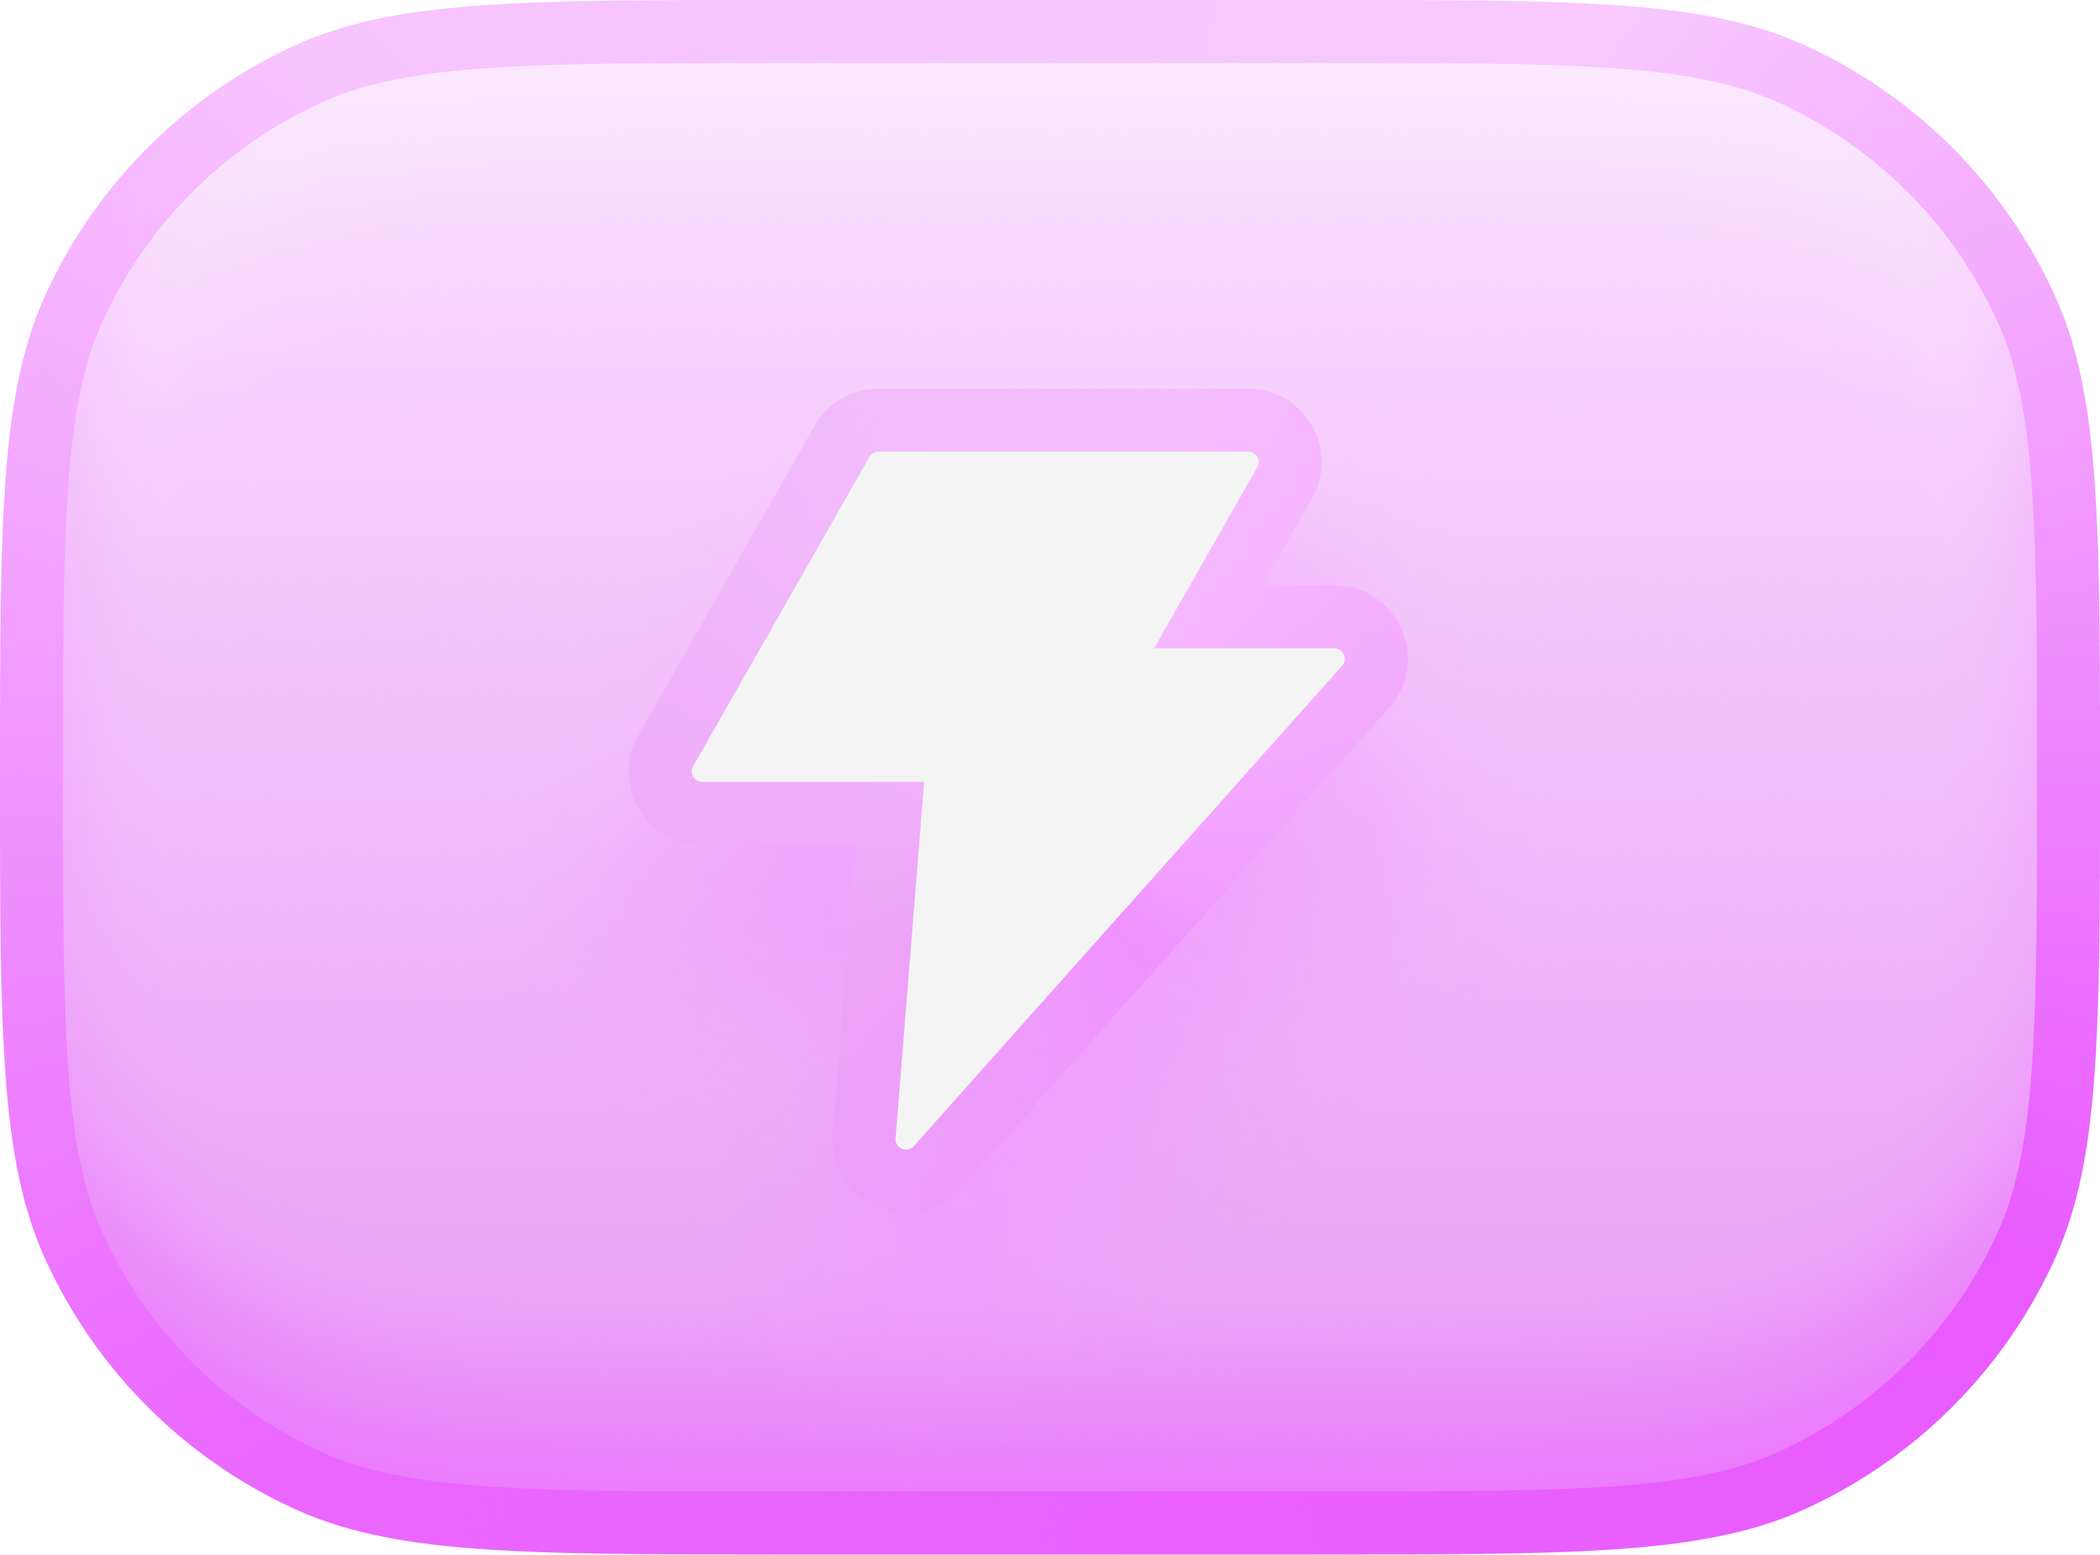
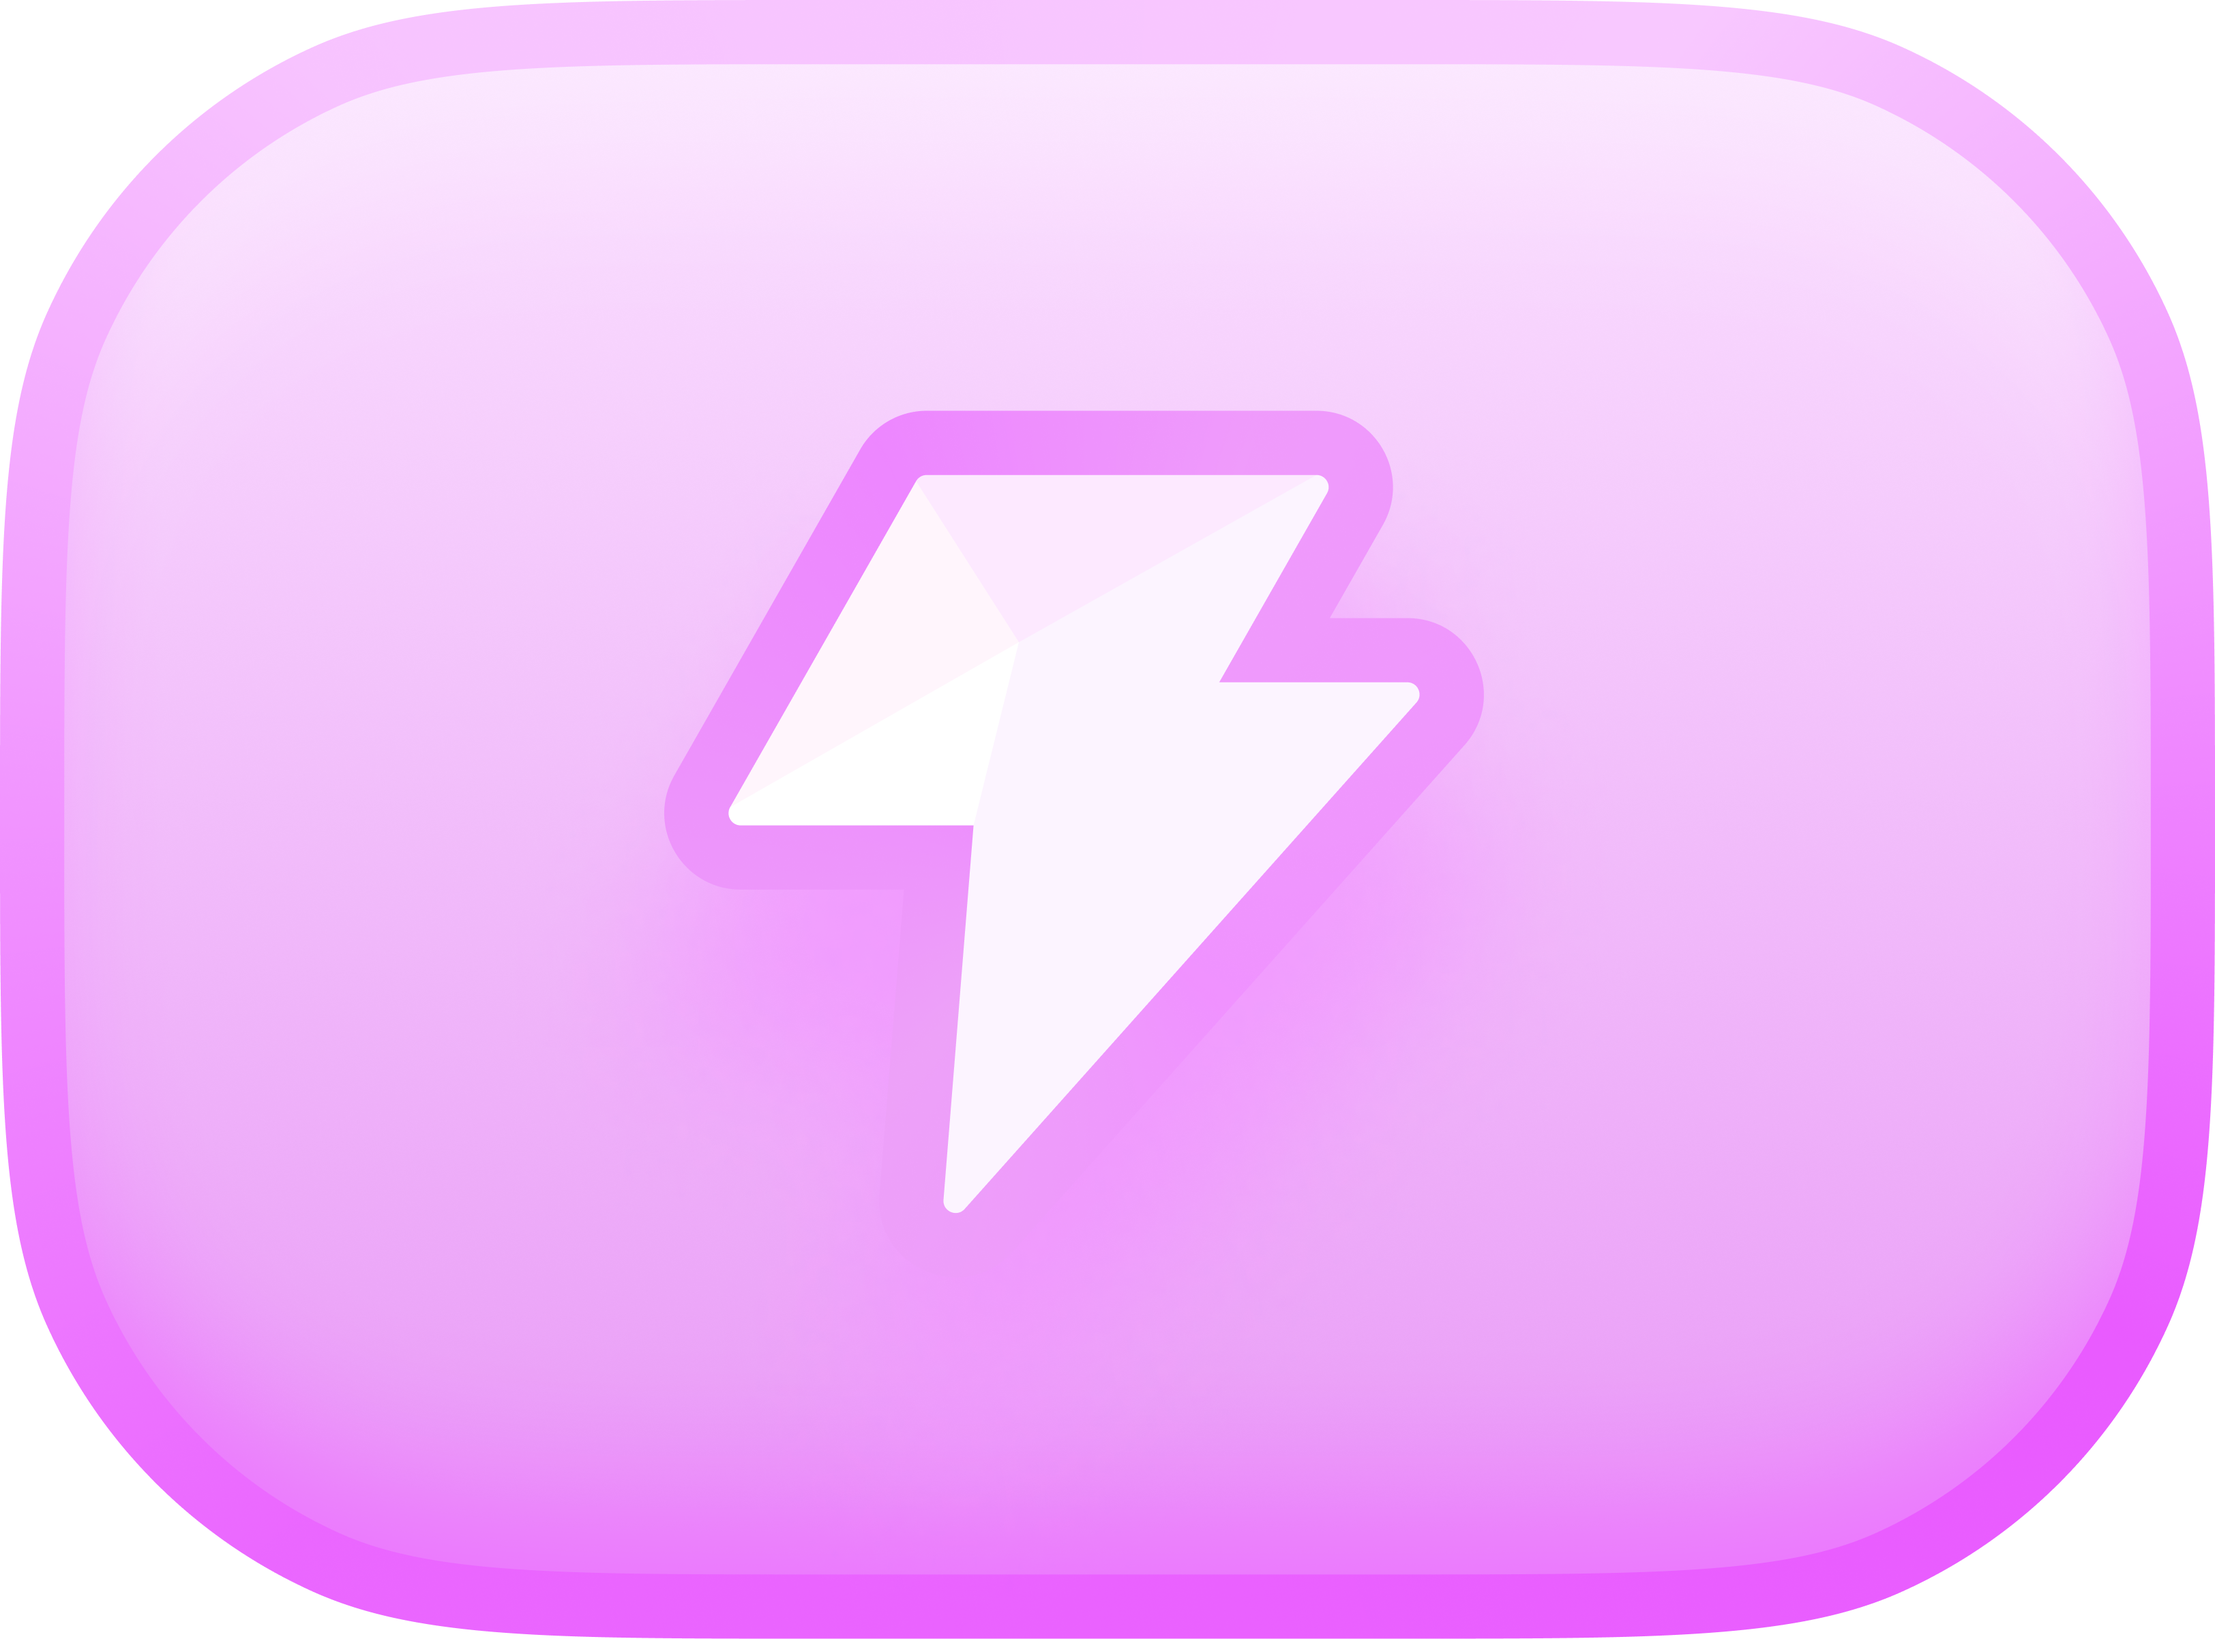
better lightning symbol, starting to take shape

Changed region(s): [[0.2805, 0.2491, 0.6545, 0.5294], [0.2494, 0.9965, 0.7481, 1.0]]

diff --git a/src/app/page.tsx b/src/app/page.tsx
@@ -1,29 +1,37 @@
-import Image from "next/image";
 import Badge from "@/app/components/badge";
+import SeparatorVerticalTopScrew from "./components/separator_vertical_top_screw";
 import ScrollTextAppear from "@/app/components/scroll_text_appear";
 
 export default function Home() {
   return (
-    <main className="flex min-h-screen flex-col items-center pt-[120px] max-w-[500px] mx-auto">
-      <Badge texts={["Design subscription", "Available"]} color="whitesmoke" />
-      <h1 className="hero_1_title max-w-3xl">Design supplier based out of Austin, TX
+    <main className="flex min-h-screen flex-col items-center pt-[60px] max-w-[500px] mx-auto">
+      <Badge 
+        texts={["Built to world standards", "Design subscription"]} 
+        color="whitesmoke" />
+      <SeparatorVerticalTopScrew className="transform rotate-180 opacity-75"/>
+      <h1 className="hero_1_title max-w-3xl my-1">Lassen comb<br/>A design supplier based out of Austin, TX
       </h1>
+      <SeparatorVerticalTopScrew className="transform translate-y-[12px] rotate-0 opacity-75"/>
       <section>
         <ScrollTextAppear>
+          <br />
+          <br />
+          <br />
+          <br />
+          <br />
+          <div>
+            We are a design supplier based out of Austin, TX. We offer a wide range of design services to help you with your project. We have a team of experienced designers who can help you with any design project you have. Whether you need a logo, website, or any other design service, we can help. Contact us today to learn more about our design services and how we can help you with your project.
+          </div>
+          <img src="/images/lightning.png" alt="hero_1" className="my-5 w-14" />
+          <br />
+          <br />
+          <br />
+          <br />
           <div>
             We are a design supplier based out of Austin, TX. We offer a wide range of design services to help you with your project. We have a team of experienced designers who can help you with any design project you have. Whether you need a logo, website, or any other design service, we can help. Contact us today to learn more about our design services and how we can help you with your project.
           </div>
           <div>
-            We are a design supplier based out of Austin, TX. We offer a wide range of design services to help you with your project. We have a team of experienced designers who can help you with any design project you have. Whether you need a logo, website, or any other design service, we can help. Contact us today to learn more about our design services and how we can help you with your project.
-          </div>
-          <div>
-            We are a design supplier based out of Austin, TX. We offer a wide range of design services to help you with your project. We have a team of experienced designers who can help you with any design project you have. Whether you need a logo, website, or any other design service, we can help. Contact us today to learn more about our design services and how we can help you with your project.
-          </div>
-          <div>
-            We are a design supplier based out of Austin, TX. We offer a wide range of design services to help you with your project. We have a team of experienced designers who can help you with any design project you have. Whether you need a logo, website, or any other design service, we can help. Contact us today to learn more about our design services and how we can help you with your project.
-          </div>
-          <div>
-            We are a design supplier based out of Austin, TX. We offer a wide range of design services to help you with your project. We have a team of experienced designers who can help you with any design project you have. Whether you need a logo, website, or any other design service, we can help. Contact us today to learn more about our design services and how we can help you with your project.
+            From the abstract to the concrete: a holistic approach to crafting powerful digital experiences.
           </div>
         </ScrollTextAppear>
         <div className="my-12"></div>

diff --git a/src/app/components/separator_vertical_top_screw.tsx b/src/app/components/separator_vertical_top_screw.tsx
@@ -1,0 +1,36 @@
+import React from 'react';
+interface SeparatorVerticalTopScrewProps {
+    className?: string;
+  }
+
+const SeparatorVerticalTopScrew: React.FC<SeparatorVerticalTopScrewProps> = ({ className }) => {
+    return (
+        <svg className={className} width="16" height="71" viewBox="0 0 16 71" fill="none" xmlns="http://www.w3.org/2000/svg">
+            <line x1="8" y1="14" x2="8" y2="71" stroke="url(#paint0_linear_999_963)" strokeOpacity="0.15" strokeWidth="1.5"/>
+            <path d="M13.9312 7.9827C13.9312 11.2678 11.2681 13.931 7.98294 13.931C4.6978 13.931 2.03467 11.2678 2.03467 7.9827C2.03467 4.69756 4.6978 2.03442 7.98294 2.03442C11.2681 2.03442 13.9312 4.69756 13.9312 7.9827Z" fill="white"/>
+            <path d="M7.98294 14.7068C11.6966 14.7068 14.7071 11.6963 14.7071 7.9827C14.7071 4.26906 11.6966 1.25856 7.98294 1.25856C4.2693 1.25856 1.25881 4.26906 1.25881 7.9827C1.25881 11.6963 4.2693 14.7068 7.98294 14.7068Z" stroke="#969595" strokeOpacity="0.43" strokeWidth="1.55172"/>
+            <g filter="url(#filter0_i_999_963)">
+            <path d="M7.06215 5.53451C7.38431 4.66389 8.61569 4.66389 8.93785 5.53451L9.19088 6.2183C9.29217 6.49202 9.50798 6.70783 9.7817 6.80912L10.4655 7.06215C11.3361 7.38431 11.3361 8.61569 10.4655 8.93785L9.7817 9.19088C9.50798 9.29217 9.29217 9.50798 9.19088 9.7817L8.93785 10.4655C8.61569 11.3361 7.38431 11.3361 7.06215 10.4655L6.80912 9.7817C6.70783 9.50798 6.49202 9.29217 6.2183 9.19088L5.53451 8.93785C4.66389 8.61569 4.66389 7.38431 5.53451 7.06215L6.2183 6.80912C6.49202 6.70783 6.70783 6.49202 6.80912 6.2183L7.06215 5.53451Z" fill="#F1EFEE"/>
+            </g>
+            <path d="M9.4019 6.14022L9.14887 5.45642C8.75423 4.38992 7.24577 4.38992 6.85113 5.45642L6.5981 6.14022C6.51961 6.35235 6.35235 6.51961 6.14022 6.5981L5.45642 6.85113C4.38992 7.24577 4.38992 8.75423 5.45642 9.14887L6.14022 9.4019C6.35235 9.48039 6.51961 9.64765 6.5981 9.85978L6.85113 10.5436C7.24577 11.6101 8.75423 11.6101 9.14887 10.5436L9.4019 9.85978C9.48039 9.64765 9.64765 9.48039 9.85978 9.4019L10.5436 9.14887C11.6101 8.75423 11.6101 7.24577 10.5436 6.85113L9.85978 6.5981C9.64765 6.51961 9.48039 6.35235 9.4019 6.14022Z" stroke="#A3A2A2" strokeWidth="0.45"/>
+            <defs>
+            <filter id="filter0_i_999_963" x="4.43164" y="4.43152" width="7.13672" height="7.29214" filterUnits="userSpaceOnUse" color-interpolation-filters="sRGB">
+            <feFlood floodOpacity="0" result="BackgroundImageFix"/>
+            <feBlend mode="normal" in="SourceGraphic" in2="BackgroundImageFix" result="shape"/>
+            <feColorMatrix in="SourceAlpha" type="matrix" values="0 0 0 0 0 0 0 0 0 0 0 0 0 0 0 0 0 0 127 0" result="hardAlpha"/>
+            <feOffset dy="0.155172"/>
+            <feGaussianBlur stdDeviation="0.775862"/>
+            <feComposite in2="hardAlpha" operator="arithmetic" k2="-1" k3="1"/>
+            <feColorMatrix type="matrix" values="0 0 0 0 0 0 0 0 0 0 0 0 0 0 0 0 0 0 0.18 0"/>
+            <feBlend mode="normal" in2="shape" result="effect1_innerShadow_999_963"/>
+            </filter>
+            <linearGradient id="paint0_linear_999_963" x1="6.75" y1="14" x2="6.75" y2="71" gradientUnits="userSpaceOnUse">
+            <stop stop-color="#8000FF"/>
+            <stop offset="0.98" stop-color="#00FFFF"/>
+            </linearGradient>
+            </defs>
+        </svg>
+    );
+};
+
+export default SeparatorVerticalTopScrew;

diff --git a/src/app/components/badge.tsx b/src/app/components/badge.tsx
@@ -10,31 +10,54 @@ interface BadgeProps {
 
 const Badge: React.FC<BadgeProps> = ({ texts, color }) => {
     const [index, setIndex] = useState(0);
-    const [badgeWidth, setBadgeWidth] = useState(texts[index].length * 8);
-
+    const [badgeWidth, setBadgeWidth] = useState(172);
+    const previousIndex = index === 0 ? texts.length - 1 : index - 1;
+    
+    
     useEffect(() => {
         const interval = setInterval(() => {
-            console.log(texts[index].length)
-            const previousIndex = index === 0 ? texts.length - 1 : index - 1;
             setIndex((prevIndex) => (prevIndex + 1) % texts.length);
-            
-            setTimeout(() => {
-                setBadgeWidth(8 * texts[previousIndex].length);
-            }, 250);
-        }, 4000);
+            const measureSpan = document.getElementById('measure');
+            if (measureSpan) {
+                const width:any = parseFloat(window.getComputedStyle(measureSpan).width);
+                setTimeout(() => {
+                    setBadgeWidth(width+24);
+                }, 250);
+            }
+        }, 12000);
         return () => clearInterval(interval);
     }, [index]);
-
     return (
-        <motion.div style={{ width: `${badgeWidth}px` }}
-            className='relative flex flex-col bg-stone-50 border-stone-500 text-stone-900 items-center justify-center rounded-full px-3 py-1 border h-[30px]  my-2 text-sm transition-width duration-500 ease-in-out transition-opacity text-nowrap '
+        <motion.div style={{ 
+            width: `${badgeWidth}px`,
+            boxShadow: `inset 0px -1.5px 0 1px #e7e5e4`,
+        }}
+            className='
+                relative 
+                flex 
+                flex-col 
+                bg-stone-50 
+                border-stone-300 
+                border-[.5px]
+                items-center 
+                justify-center 
+                rounded-2xl
+                py-1
+                h-[30px] 
+                my-3 
+                text-sm 
+                transition-width 
+                duration-500 
+                ease-in-out
+                transition-opacity 
+                text-nowrap '
             layout
             transition={{ type: 'spring', stiffness: 800, damping: 35 }}
             >
             <AnimatePresence mode='out-in'>
                 {texts.map ((text, i) => (
                     <motion.span 
-                        className='absolute text-stone-900'
+                        className='absolute text-stone-500 font-[Haskoy] font-[400]'
                         key={text}
                         initial={{ opacity: 0}}
                         animate={{ opacity: i===index ? 1 : 0}}
@@ -45,6 +68,9 @@ const Badge: React.FC<BadgeProps> = ({ texts, color }) => {
                     </motion.span>
                 ))}
             </AnimatePresence>
+            <span id="measure" style={{visibility: 'hidden', whiteSpace: 'pre', fontFamily: 'Haskoy', fontSize: '14px'}}>
+                {texts[previousIndex]}
+            </span>
         </motion.div>
     );
 };

diff --git a/src/app/globals.css b/src/app/globals.css
@@ -36,6 +36,11 @@
   src: url('../../public/fonts/Haskoy-Medium.woff2') format('woff2');
 }
 
+@font-face {
+  font-family: 'Haskoy';
+  src: url('../../public/fonts/haskoy[wght].ttf') format('truetype');
+}
+
 h1.hero_1_title {
   @apply text-6xl font-normal text-balance;
   font-family: 'Baskervville';
@@ -61,7 +66,8 @@ body, html {
 
 div {
   @apply text-2xl font-normal text-balance;
-  font-family: 'Haskoy-reg';
+  font-family: 'Haskoy';
+  font-weight: 300;
   font-size: 24px;
   line-height: 37px;
   font-feature-settings: "ordn" on;

diff --git a/src/app/layout.tsx b/src/app/layout.tsx
@@ -5,8 +5,8 @@ import "./globals.css";
 const inter = Inter({ subsets: ["latin"] });
 
 export const metadata: Metadata = {
-  title: "Create Next App",
-  description: "Generated by create next app",
+  title: "Lassen Comb",
+  description: "A design studio building aesthetics for the next age of humanity",
 };
 
 export default function RootLayout({

diff --git a/tailwind.config.ts b/tailwind.config.ts
@@ -1,6 +1,7 @@
 import type { Config } from "tailwindcss";
 
 const config: Config = {
+  mode: 'jit',
   content: [
     "./src/pages/**/*.{js,ts,jsx,tsx,mdx}",
     "./src/components/**/*.{js,ts,jsx,tsx,mdx}",
